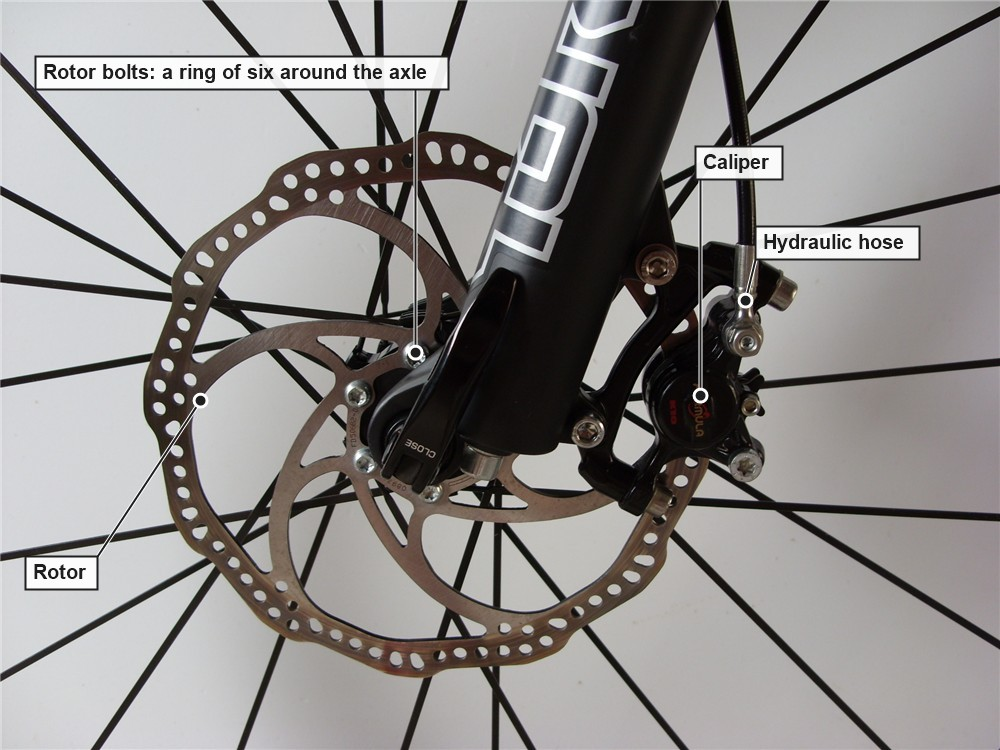
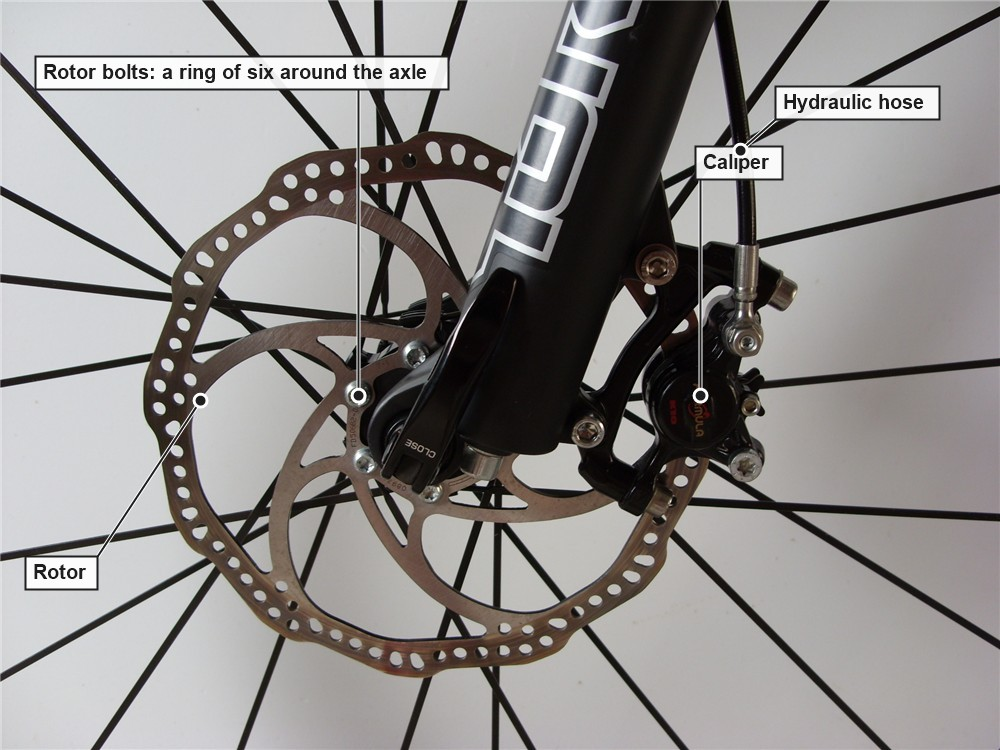
Brakes doc: second review round, reasons for every limit and question, clearer dropout tabs, diagram fixes

diff --git a/docs/brakes/README.md b/docs/brakes/README.md
@@ -6,23 +6,22 @@ The bike needs a working brake on each wheel before anyone rides it. This page c
 
 ![Side view of the bike with the rear brake line and two example front brake line routes](images/bike-layout.svg)
 
-- The front wheel already has a hydraulic disc brake, but its hose can't reach the handlebars. The handlebars sit in the middle of the bike and the front wheel is past the cargo box.
+- The front wheel has a hydraulic disc brake with a hose too short to reach the handlebars. The handlebars sit in the middle of the bike and the front wheel is past the cargo box.
 - The back wheel is the hub motor. It has no brake yet, and the motor and frame have no obvious place to mount one.
-- Pulling either brake lever has to cut the motor.
-
-Any setup has to stop the bike from 30 km/h within 9 m with a brake on each wheel, fit in roughly $220 to $260 shared with steering, and get approval if it changes the frame. The full list is under "Limits" below.
+- Ontario law says pulling either brake lever has to stop the motor.
 
 ![Our frame, labelled](images/evidence-frame.jpg)
 
 Our frame, with the parts this page talks about. Both wheels are still off the frame.
 
-## What the brakes task should produce
+## Limits
 
-Due Wed 21 Oct:
-- a chosen front setup and a chosen rear setup, each with the reasons
-- the parts and the specs they have to match (hose length and fittings, fluid type, levers with a cut-off switch)
-- any frame change, flagged for approval
-- how the brakes will be tested before anyone rides
+- Each wheel needs its own brake, and together they have to stop the bike from 30 km/h within 9 m on level pavement ([ontario.ca](https://www.ontario.ca/page/riding-e-bike), [O. Reg. 369/09](https://www.ontario.ca/laws/regulation/090369) s. 5). The same regulation caps the bike's unladen weight at 120 kg.
+- The motor has to stop pushing when a brake is applied (O. Reg. 369/09 s. 3(2)). A switch on each lever, wired to the controller's ADC2 input, is the usual way ([#18](https://github.com/Electrium-Mobility/Bakfiets-F26/issues/18), step 7).
+- Steering and brakes share roughly $220 to $260 of the term's budget, so money spent on one comes out of the other.
+- Changing the frame (welding, drilling, filing) needs approval from a mechanical lead and the project lead, because a bad weld or hole weakens a frame that carries cargo.
+- Parts go through the project lead once the specs they need to match are posted, so orders stay inside the shared budget.
+- Regen (the motor slowing the wheel) can't count as one of the two brakes. It stops working if the controller or battery cuts out, and fades away at low speed.
 
 ## Front wheel
 
@@ -32,9 +31,11 @@ The front brake is a hydraulic disc brake. The lever pushes fluid down a hose to
 
 What a disc brake looks like, on another bike. Ours is the same kind of brake.
 
-Its hose is far too short for this layout (seen in the bay). A close photo of it would give its brand, model and fluid type, and those decide which parts are compatible.
+Its hose is too short for this layout (seen in the bay). Its brand, model and fluid type decide which parts are compatible, so a close photo of the lever and caliper is the first thing to get.
 
-The line has to reach the caliper at the front axle. Both the fork and the handlebar post turn when steering, so it has to bend at both ends. It could cross over the cargo box or follow the frame tubes under it (the two examples in the side view), and the steering design ([#25](https://github.com/Electrium-Mobility/Bakfiets-F26/issues/25)) changes what works.
+The handlebars are far from the fork, so whatever steering design gets picked ([#25](https://github.com/Electrium-Mobility/Bakfiets-F26/issues/25)) links the two, and both ends turn. The brake line has to bend at both ends and still reach the caliper at the front axle. It could cross over the cargo box or follow the frame tubes under it (the two examples in the side view).
+
+A long line also changes which kind of brake makes sense. A long cable gets more friction and feels mushier at the lever. A long hydraulic hose stays firm, but every part has to match the brake's fluid and it needs bleeding.
 
 ## Back wheel
 
@@ -42,11 +43,11 @@ The line has to reach the caliper at the front axle. Both the fork and the handl
 
 ![The motor's cable side, labelled](images/evidence-motor-wheel.jpg)
 
-A disc rotor bolts to a ring of six holes around the axle (or a splined Center Lock fitting), like in the disc brake photo above. Both sides of our motor look like plain covers. A close-up would confirm it.
+A disc rotor bolts to a ring of six holes around the axle, like in the disc brake photo above. Both sides of our motor are plain covers held on by small screws.
 
 ![The motor's freewheel side, labelled](images/evidence-motor-side.jpg)
 
-The threads next to the axle are for a freewheel (the rear gears), so the motor has to stay on the back wheel. The side covers are held on by the small screws around the edge.
+The motor is built for the back: its axle is wider than a front fork, and the threads next to it are for rear gears. So the back wheel has to be braked around the motor.
 
 ### The frame has no rim brake mounts
 
@@ -54,39 +55,44 @@ The threads next to the axle are for a freewheel (the rear gears), so the motor 
 
 <img src="images/bare-bosses.jpg" alt="Bare bosses on another bike's seat stays, labelled" width="420">
 
-V-brakes and cantilever brakes mount on bosses: two short posts on the seat stays, just below the rim (the second photo, from another bike). Our seat stays are smooth tube with no bosses. An old style caliper rim brake bolts through a bridge between the stays instead, and ours have no bridge either.
+V-brakes and cantilever brakes mount on bosses: two short posts on the seat stays, just below the rim (the second photo, from another bike). Our seat stays are smooth tube with no bosses. An old style caliper rim brake needs a bridge between the stays to bolt through, so ours would need one added.
 
-The rim has a silver band along its edge, which is usually a surface for rim brakes. It still needs a close look.
+The rim has a silver band along its edge, which is usually a surface for rim brakes, if it's flat enough for the pads to grip.
 
-The dropout plates have several holes. Some may be for a rack, and the raised ones might be a disc tab. The spacing would tell: 51 mm apart for an IS disc mount, 74 mm for a post mount.
+One dropout plate has two raised tabs with holes in them. A disc caliper bolts to a pair of tabs like that, so they might be a disc brake mount (check 3 below covers how to tell).
 
 ### Approaches people use
 
-For a rear hub motor with no disc mount: bosses brazed or welded onto the seat stays, clamp-on boss plates ([some riders don't trust them](https://cyclechat.net/threads/v-brakes-fitting-to-a-frame-without-bosses.26234)), an adapter that bolts a rotor to the motor's cover screws, a disc tab if the frame turns out to have one, or a different motor with a disc mount. Drum and coaster brakes need a hub built for them, which rules them out here. Braking on the motor shell itself would put heat right next to the magnets, which weaken when hot.
+For a rear hub motor with no disc mount:
+- Bosses brazed or welded onto the seat stays, then a V-brake. Changes the frame.
+- Clamp-on boss plates. Leaves the frame alone, but riders worry the clamps can slip under braking ([forum thread](https://cyclechat.net/threads/v-brakes-fitting-to-a-frame-without-bosses.26234)).
+- An adapter that bolts a rotor to the motor's cover screws. Those screws are small and weren't made for braking loads, and it still needs a caliper mount on the frame.
+- A disc tab, if the dropouts turn out to have one.
+- A different motor with a disc mount.
+
+Drum and coaster brakes need a hub built for them, which rules them out here. Braking on the motor shell itself would put heat right next to the magnets, which weaken when hot.
 
 ## Open questions
 
 Check in the bay first:
 1. The front brake's brand, model, fluid type and hose fittings. A longer hose, a new lever or a bleed kit all have to match these, and mixing mineral oil with DOT fluid ruins the seals.
-2. Close-ups of both sides of the motor. The current photos are taken from too far away to be sure, and a rotor mount would make a disc brake the easiest option for the back.
-3. The silver band on the rim, up close. A rim brake needs a flat metal surface to grip, so this decides whether rim brakes are an option for the back at all.
-4. The spacing of the raised dropout holes. 51 mm or 74 mm apart means a disc tab, which opens up a disc brake on the back with a rotor adapter on the motor.
+2. The silver band on the rim, up close. A rim brake needs a flat metal surface to grip, so this decides whether rim brakes are an option for the back at all.
+3. The two raised tabs on the dropout: the spacing between their holes and which side of the bike they're on. 51 mm apart is an IS disc mount and 74 mm is a post mount, and a rear disc tab only works on the left side. If it's a disc tab, a disc brake on the back becomes possible.
 
 Then work out:
-1. Reuse the front brake with a longer hose, or replace it? Reusing is cheaper but ties every part to that brand. Replacing costs more but lets you pick parts that suit the long line.
-2. Over the box or along the frame, and how long is the line then? The length decides which hose or cable to buy, and the route has to survive the fork and handlebar post turning, which depends on the steering design ([#25](https://github.com/Electrium-Mobility/Bakfiets-F26/issues/25)).
-3. How will the back wheel be braked, what does it cost, and does it change the frame? This is the hardest part and will take most of the budget. A frame change also needs approval, which takes time.
-4. Which cut-off switch fits the levers you pick? The law requires one, and it has to plug into the controller's ADC2 input. Some levers have a switch built in, others need a separate sensor.
-5. What load should the brakes be sized for (rider, cargo, battery and bike)? A loaded cargo bike is much heavier than a regular bike, and the brakes still have to stop it within 9 m from 30 km/h.
+1. Reuse the front brake with a longer hose, or replace it? What would make each one the better choice?
+2. Over the box or along the frame, and how long is the line then? The length decides what to buy, and the route has to survive the steering turning at both ends.
+3. How will the back wheel be braked, what does it cost, and does it change the frame? Every rear option needs new mounts, an adapter or a different motor, so it could take a big share of the budget.
+4. Which cut-off switch fits the levers you pick? It has to plug into the controller's ADC2 input. Some levers have one built in, others need a separate sensor.
+5. What load should the brakes be sized for? A loaded cargo bike (rider, cargo, battery and a bike of up to 120 kg) is much heavier than a regular bike, and it still has to stop within 9 m from 30 km/h.
 
-## Limits
+## What the brakes task should produce
 
-- Ontario's rules ask for two independent brakes that apply force to each wheel, able to stop from 30 km/h within 9 m on level asphalt ([ontario.ca](https://www.ontario.ca/page/riding-e-bike)).
-- Pulling a brake lever has to cut the motor (O. Reg. 369/09 s. 3(2)). On our bike that's a switch wired to the controller's ADC2 input ([#18](https://github.com/Electrium-Mobility/Bakfiets-F26/issues/18), step 7).
-- Steering and brakes share roughly $220 to $260 of the term's budget.
-- Changing the frame (welding, drilling, filing) needs approval from a mechanical lead and the project lead.
-- Parts go through the project lead once the specs they need to match are posted.
-- Regen (the motor slowing the wheel) can't count as one of the two brakes. It stops working if the controller or battery cuts out, and fades away at low speed.
+Due Wed 21 Oct:
+- a chosen front setup and a chosen rear setup, each with the reasons
+- the parts and the specs they have to match (hose length and fittings, fluid type, levers with a cut-off switch)
+- any frame change, flagged for approval
+- how the brakes will be tested before anyone rides, for example a marked 9 m stopping distance with speed read off a phone's GPS
 
 ## Background
 
@@ -108,22 +114,22 @@ A real V-brake. The boss is hidden under the pivot bolt.
 
 ![Inside a direct-drive hub motor](images/hub-motor-inside.svg)
 
-The axle and the stator (copper coils) are fixed to the frame and never turn. The shell, with magnets on its inside, spins around them and turns the wheel through the spokes. The controller sends current through the three phase wires in a rotating pattern, so the coils' magnetic field turns and drags the magnets along. Hall sensors on the stator tell the controller where the magnets are.
-
-The stator pushes back on the axle as hard as it pushes the wheel, which is why the axle needs torque arms ([#31](https://github.com/Electrium-Mobility/Bakfiets-F26/issues/31)).
+The axle and the stator (copper coils) are fixed to the frame and never turn. The shell, with magnets on its inside, spins around them and turns the wheel through the spokes. The controller sends current through the three phase wires in a rotating pattern, so the coils' magnetic field turns and drags the magnets along. This is also why braking on the shell is a bad idea: the magnets sit right under it and weaken when hot.
 
 </details>
 
 <details>
 <summary>Words used here</summary>
 
-- **Caliper:** the part that squeezes. On a disc brake it grips the rotor.
-- **Rotor:** the metal disc on the hub that a disc caliper grips.
-- **Hydraulic:** the lever pushes fluid through a hose. Mineral oil and DOT fluid can't be mixed, because the wrong one ruins the seals.
-- **Seat stays and chain stays:** the pairs of tubes that run to the rear axle, from under the seat and from the pedals.
-- **Dropouts:** the plates at the back where the rear axle sits.
-- **Freewheel:** the rear gears, which screw onto the hub.
-- **Torque arm:** a bracket that stops a hub motor's axle from spinning in the dropouts.
+- ADC2: the controller input the brake cut-off switch plugs into.
+- Boss: a short post on the frame that a V-brake or cantilever arm pivots on.
+- Bleed kit: tools and fluid for filling a hydraulic brake and pushing out air.
+- Caliper: the part that squeezes. On a disc brake it grips the rotor.
+- Dropouts: the plates at the back where the rear axle sits.
+- Freewheel: the rear gears, which screw onto the hub.
+- IS and post mount: the two common ways a disc caliper bolts to a frame or fork.
+- Rotor: the metal disc on the hub that a disc caliper grips.
+- Seat stays and chain stays: the pairs of tubes that run to the rear axle, from under the seat and from the pedals.
 
 </details>
 
